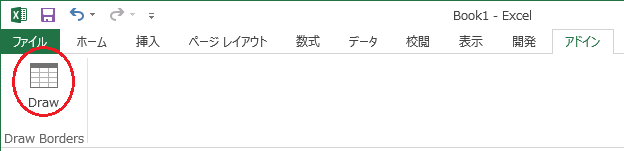
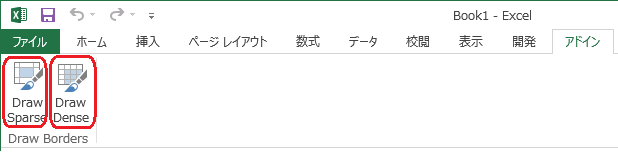
Add "Draw Dense"

diff --git a/README.md b/README.md
@@ -19,7 +19,7 @@ If you use Excel like graph paper, this Add-In will come in handy.
 
  ![select the range](https://github.com/minoru-nagasawa/DrawBordersExcelAddin/blob/master/select.png)  
 
-2. Click "Draw" in Ribbon.  
+2. Click "Draw Sparse" or "Draw Dense" in Ribbon.  
 
  ![click draw](https://github.com/minoru-nagasawa/DrawBordersExcelAddin/blob/master/click.png)  
 
